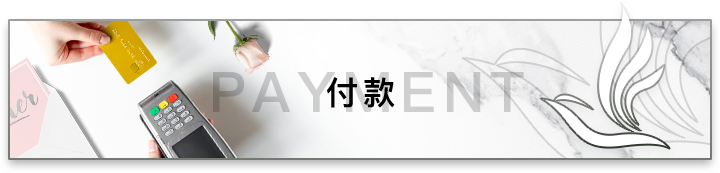
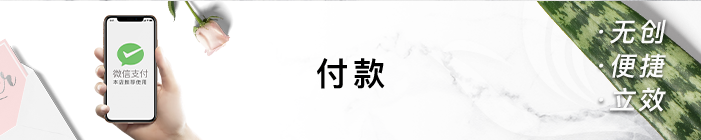
根据新的设计图 首页样式调整等

diff --git a/src/app/index/index.component.css b/src/app/index/index.component.css
@@ -1,54 +1,104 @@
+.headBox{
+  position: relative;
+  width: 100%;
+  height: 5.87rem;
+  display: flex;
+  flex-direction: column;
+  align-items: center;
+}
 .head{
   width: 100%;
-  height: 1rem;
   display: flex;
   flex-direction: row;
   justify-content: center;
   align-items: flex-end;
+  position: absolute;
+  z-index: 2;
 }
 .head .searchBox{
-  width: 6rem;
-  height: 0.6rem;
-  border-bottom: 1px solid #000 ;
+  width: 5.2rem;
+  height: 0.5rem;
+  background: #000;
+  opacity: 0.5;
+  position: absolute;
+  top: 0.5rem;
+  left: 50%;
+  margin-left: -2.6rem;
+  z-index: 2;
+  border-radius: 0.2rem;
+}
+.head .searchBoxText{
+  width: 5.2rem;
+  height: 0.5rem;
   display: flex;
   flex-direction: row;
-  justify-content:flex-start;
+  justify-content:space-between;
   align-items: center;
+  position: absolute;
+  top: 0.5rem;
+  left: 50%;
+  margin-left: -2.6rem;
+  z-index: 3;
+
 }
-.head .searchBox .icon{
-  width: 0.28rem;
-  height: 0.4rem;
-  margin-left: 0.2rem;
+
+.head .searchBoxText .icon{
+  width: 0.24rem;
+  height: 0.35rem;
+  margin-left: 0.3rem;
 }
-.head .searchBox  .name{
-  color: #3c3c3c;
+.head .searchBoxText  .name{
+  color: #FFF;
   font-size: 0.26rem;
   line-height: 0.26rem;
-  margin-left: 0.2rem;
-  margin-left: 1rem;
+
+}
+.head .searchBoxText .arrow{
+  color: #FFF;
+  margin-right: 0.2rem;
+  font-size: 0.26rem;
+  line-height: 0.26rem;
+}
+.headBg{
+  width: 7.5rem;
+  height: 5.87rem;
+  position: absolute;
+  left: 0;
+  top: 0;
+  z-index: 1;
 }
 .headSwiper .swiper-container {
   width: 7rem;
-  height: 2.6rem;
+  height: 3.6rem;
   margin-top: 0.3rem;
   -moz-box-shadow:0rem 0.08rem 0.1rem #AEAEB0, 0.02rem 0rem 0.05rem #AEAEB0, -0.02rem 0rem 0.05rem #AEAEB0;
   -webkit-box-shadow:0rem 0.08rem 0.1rem #AEAEB0, 0.02rem 0rem 0.05rem #AEAEB0, -0.02rem 0rem 0.05rem #AEAEB0;
   box-shadow:0rem 0.08rem 0.1rem #AEAEB0, 0.02rem 0rem 0.05rem #AEAEB0, -0.02rem 0rem 0.05rem #AEAEB0;
 
 }
+.headSwiper img{
+  width: 100%;
+  height: 100%;
+}
 .headSwiper .swiper-pagination{
   margin-left: 0.35rem;
   text-align: inherit;
 }
 .payBox{
-  width: 100%;
-  height: 1.73rem;
+  width: 7rem;
+  height: 1.4rem;
   display: flex;
   flex-direction: row;
   justify-content: center;
+  position: relative;
+  z-index: 9;
+  margin-top: 0.38rem;
+  -moz-box-shadow:0rem 0.08rem 0.1rem #AEAEB0, 0.02rem 0rem 0.05rem #AEAEB0, -0.02rem 0rem 0.05rem #AEAEB0;
+  -webkit-box-shadow:0rem 0.08rem 0.1rem #AEAEB0, 0.02rem 0rem 0.05rem #AEAEB0, -0.02rem 0rem 0.05rem #AEAEB0;
+  box-shadow:0rem 0.08rem 0.1rem #AEAEB0, 0.02rem 0rem 0.05rem #AEAEB0, -0.02rem 0rem 0.05rem #AEAEB0;
 }
 .payBox img{
-  width: 7.2rem;
+  width: 7rem;
   height: 100%;
 }
 .coffeIcon{
@@ -62,41 +112,51 @@
 .sideScrollBox{
   width: 100%;
   margin-top: 0.4rem;
+  display: flex;
+  flex-direction: column;
+  align-items: center;
 }
 .sideScrollBox .heads{
-  width: 100%;
+  width: 7rem;
 }
 .sideScrollBox img{
-  width: 1.89rem;
-  height: 0.5rem;
-  margin-left: 0.28rem;
+  width: 1.87rem;
+  height: 0.6rem;
 }
 .sideScrollBox .swiper-container{
+  width: 100%;
   padding-left: 0.2rem;
   padding-top: 0.2rem;
   padding-bottom: 0.2rem;
 }
 .sideScrollBox .swiper-slide{
   width: 2rem;
-  height: 2.98rem;
+  height: 2.96rem;
   border: 1px solid #e4cb8e;
   border-radius: 0.1rem;
   -moz-box-shadow:0px 0.02rem 0.2rem #dbdbdb;
   -webkit-box-shadow:0px 0.02rem 0.2rem #dbdbdb;
   box-shadow:0px 0.02rem 0.2rem #dbdbdb;
 }
-.tiyanBox{
-  width: 7.1rem;
-  height: 1.8rem;
-  border: 1px solid #e4cb8e;
-  margin:0 auto;
-  border-radius: 3.5rem;
-  margin-top: 0.4rem;
-  -moz-box-shadow:0px 0.02rem 0.2rem #d3d3d3;
-  -webkit-box-shadow:0px 0.02rem 0.2rem #d3d3d3;
-  box-shadow:0px 0.05rem 0.2rem #d3d3d3;
-  overflow: hidden;
+.sideScrollBox .swiper-slide img{
+  width: 2rem;
+  height: 2.96rem;
 }
+.tiyanBox{
+  width: 100%;
+  height: 2.2rem;
+  margin-top: 0.55rem;
+  overflow: hidden;
+  display: flex;
+  flex-direction: row;
+  justify-content: center;
+  align-items: center;
+}
+.tiyanBox img{
+  width: 7.25rem;
+  height: 2.2rem;
+}
+
 .serveBox{
   width: 100%;
   display: flex;
@@ -137,4 +197,3 @@
   overflow: hidden;
   background: #e4cb8e;
 }
-

diff --git a/src/app/index/index.component.html b/src/app/index/index.component.html
@@ -1,43 +1,59 @@
-<div class="head">
-  <div class="searchBox">
-    <img src="./assets/image/location.png" alt="">
-    <span class="name">春鸟皮肤管理中心顺义天美1店</span>
-  </div>
-</div>
-<div class="headSwiper">
-  <div class="swiper-container">
-    <div class="swiper-wrapper">
-      <div class="swiper-slide">Slide 1</div>
-      <div class="swiper-slide">Slide 2</div>
-      <div class="swiper-slide">Slide 3</div>
+<div class="headBox">
+  <div class="head">
+    <div class="searchBox"></div>
+    <div class="searchBoxText">
+      <img class="icon" src="./assets/image/location.png" alt="">
+      <span class="name">春鸟皮肤管理中心顺义天美1店</span>
+      <span class="arrow">></span>
     </div>
-    <!-- 如果需要分页器 -->
-    <div class="swiper-pagination"></div>
+  </div>
+  <img class="headBg" src="./assets/image/headBg.png" alt="">
+  <div class="headSwiper">
+    <div class="swiper-container">
+      <div class="swiper-wrapper">
+        <div class="swiper-slide">
+          <img src="./assets/image/example.png" alt="">
+        </div>
+        <div class="swiper-slide">
+          <img src="./assets/image/example.png" alt="">
+        </div>
+        <div class="swiper-slide">
+          <img src="./assets/image/example.png" alt="">
+        </div>
+      </div>
+      <!-- 如果需要分页器 -->
+      <div class="swiper-pagination"></div>
+    </div>
+  </div>
+  <div class="payBox" [routerLink]="['../**']">
+    <img src="./assets/image/payIcon.png" alt="">
   </div>
 </div>
-
 <img class="coffeIcon" src="./assets/image/coffe.png" alt="">
-<div class="payBox" [routerLink]="['../**']">
-  <img src="./assets/image/payIcon.png" alt="">
-</div>
+
 <div class="sideScrollBox">
   <div class="heads">
     <img src="./assets/image/sideScrollBoxHead.png" alt="">
   </div>
   <div class="swiper-container">
     <div class="swiper-wrapper">
-      <div class="swiper-slide" [routerLink]="['../detail']">Slide 1</div>
-      <div class="swiper-slide">Slide 2</div>
-      <div class="swiper-slide">Slide 3</div>
-      <div class="swiper-slide">Slide 4</div>
-      <div class="swiper-slide">Slide 5</div>
-      <div class="swiper-slide">Slide 6</div>
-      <div class="swiper-slide">Slide 7</div>
+      <div class="swiper-slide" [routerLink]="['../detail']">
+        <img src="./assets/image/jx1.png" alt="">
+      </div>
+      <div class="swiper-slide">
+        <img src="./assets/image/jx2.png" alt="">
+      </div>
+      <div class="swiper-slide">
+        <img src="./assets/image/jx3.png" alt="">
+      </div>
+      <div class="swiper-slide">
+        <img src="./assets/image/jx4.png" alt="">
+      </div>
     </div>
   </div>
 </div>
 <div class="tiyanBox">
-
+  <img src="./assets/image/newperson.png" alt="">
 </div>
 
 <div class="serveBox">

diff --git a/src/app/index/index.component.ts b/src/app/index/index.component.ts
@@ -20,8 +20,8 @@ export class IndexComponent implements OnInit, AfterViewInit {
       },
     });
     const sideScrollBox = new Swiper('.sideScrollBox .swiper-container', {
-      slidesPerView: 3,
-      spaceBetween: 15,
+      slidesPerView: 'auto',
+      spaceBetween: 30,
     });
   }
 

diff --git a/src/app/app.component.ts b/src/app/app.component.ts
@@ -1,6 +1,4 @@
 import { Component } from '@angular/core';
-
-
 @Component({
   selector: 'app-root',
   templateUrl: './app.component.html',
